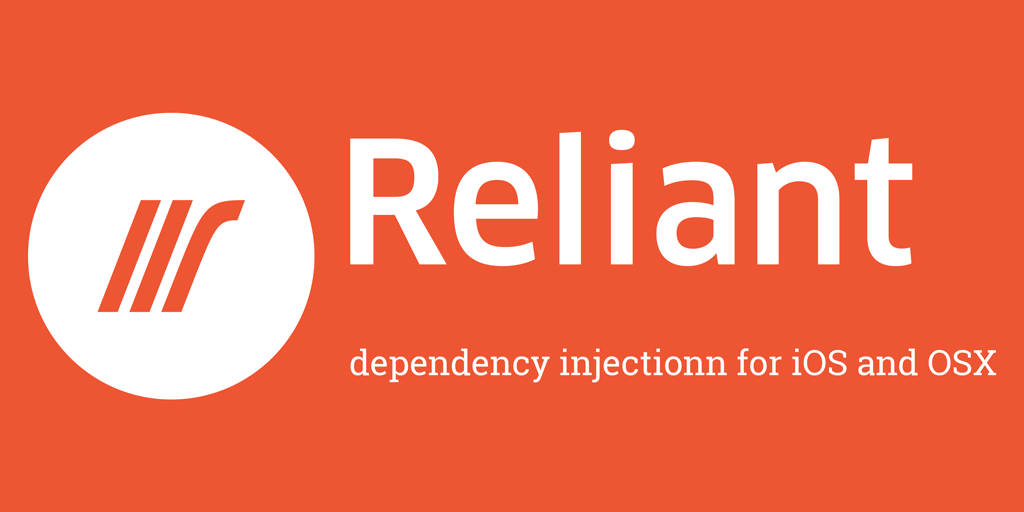
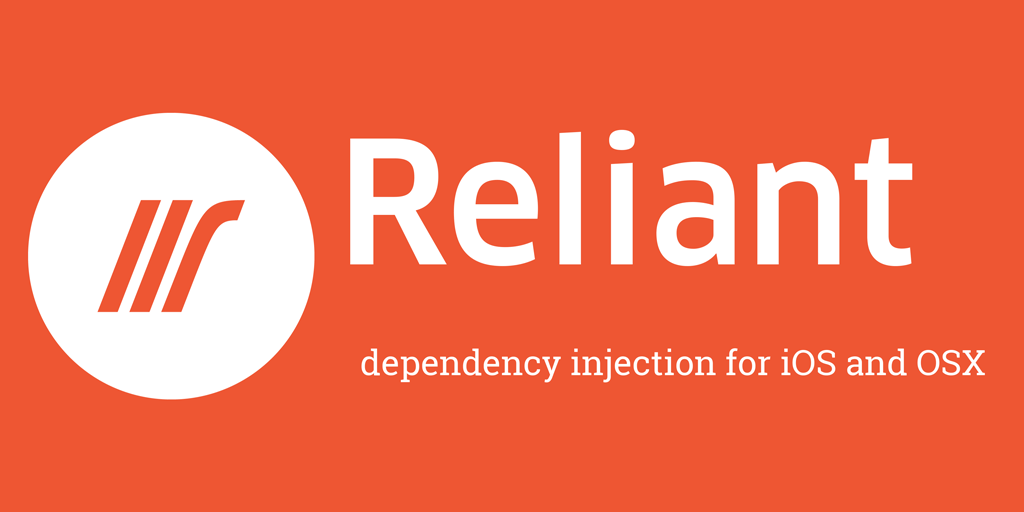
Outline and meta changes

Changed region(s): [[0.3438, 0.6562, 0.9688, 0.75]]

diff --git a/css/styles.css b/css/styles.css
@@ -318,8 +318,10 @@ footer {
     float: left;
     margin-left: 0.83333%;
     margin-right: 0.83333%; }
-  footer section h2, footer section p {
+  footer section h2, footer section p, footer section div {
     color: white; }
+  footer section div {
+    margin-left: 0px; }
   footer a {
     color: white; }
     footer a:hover {
@@ -606,13 +608,6 @@ footer {
     float: left;
     margin-left: 0.83333%;
     margin-right: 0.83333%; }
-
-@media (min-width: 600px) {
-  .contact > div {
-    width: 40%;
-    float: left;
-    margin-left: 5%;
-    margin-right: 5%; } }
 
 .content section {
   padding-bottom: 2em;

diff --git a/_includes/head.html b/_includes/head.html
@@ -8,7 +8,7 @@
 	<meta property="og:site_name" content="Reliant"/>
 	<meta property="og:image" content="http://reliant.appfoundry.be/images/reliant-heading.png"/>
 	<meta property="og:description" content="Reliant - dependency injection for iOS and OSX - created by AppFoundry"/>
-	<meta property="twitter:card" content="AppFoundryBE"/>
+	<meta property="twitter:card" content="summary_large_image"/>
 	<meta property="twitter:site" content="@AppFoundryBE"/>
 	<meta property="twitter:creator" content=" @AppFoundryBE "/>
 	<meta property="twitter:title" content="Reliant"/>

diff --git a/_assets/scss/styles.scss b/_assets/scss/styles.scss
@@ -1,4 +1,4 @@
-@import "../../bower_components/susy/sass/susy";
+@import "../../../bower_components/susy/sass/susy";
 @import "normalize";
 @import "settings";
 @import "colors";
@@ -31,14 +31,6 @@
 
   > div {
     @include span(4);
-  }
-}
-
-.contact {
-  @include susy-breakpoint(600px) {
-    > div {
-      @include span(1 of 2);
-    }
   }
 }
 

diff --git a/_includes/footer.html b/_includes/footer.html
@@ -33,7 +33,7 @@
     <section class="licence">
       <h2>Licence</h2>
 
-      <p>Reliant is released under <a href="http://opensource.org/licenses/MIT">MIT licence</a></p>
+      <div>Reliant is released under <a href="http://opensource.org/licenses/MIT">MIT licence</a></div>
 
     </section>
   </div>

diff --git a/_assets/scss/_footer.scss b/_assets/scss/_footer.scss
@@ -12,8 +12,12 @@ footer {
       @include span(4);
     }
 
-    h2, p {
+    h2, p, div {
       color: white;
+    }
+
+    div {
+     margin-left: 0px;
     }
   }
 
@@ -24,4 +28,6 @@ footer {
       color: $c-orange;
     }
   }
+
+  
 }
